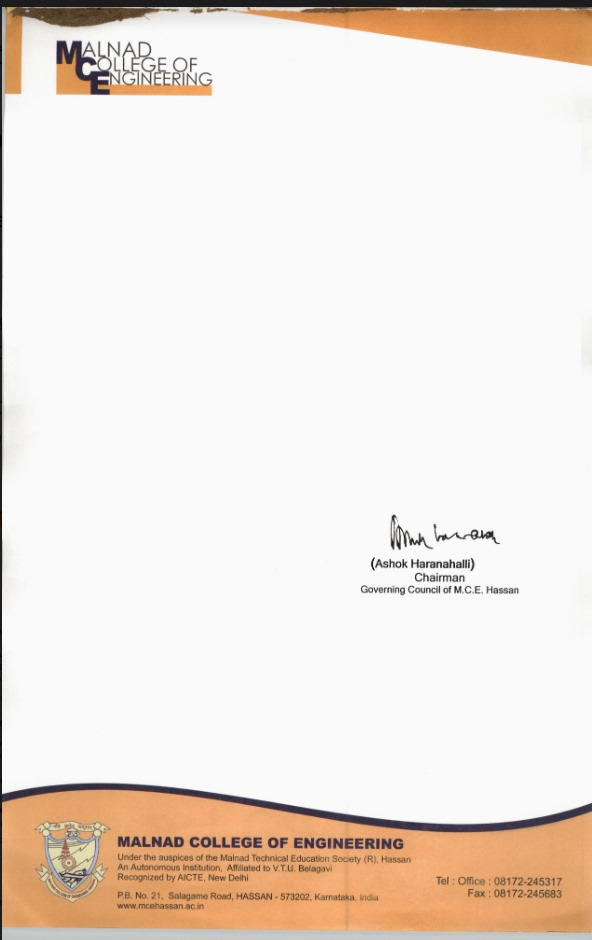
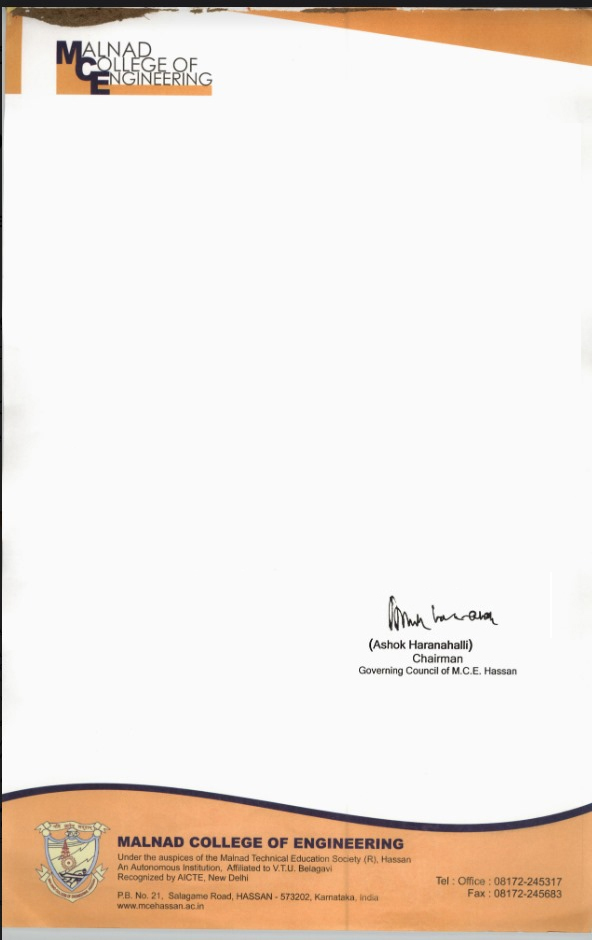
Admit Letter Modified

Changed region(s): [[0.6081, 0.5553, 0.8818, 0.7404]]

diff --git a/application/controllers/Admin.php b/application/controllers/Admin.php
@@ -2096,12 +2096,10 @@ class Admin extends CI_Controller
 			$data['admissionStatusColor'] = $this->globals->admissionStatusColor();
 			$data['currentAcademicYear'] = $this->globals->currentAcademicYear();
 			$data['admissionDetails'] = $this->admin_model->getDetails('admissions', $id)->row();
-			$data['entranceDetails'] = $this->admin_model->getDetails('admissions', $id)->row();
-			$data['personalDetails'] = $this->admin_model->getDetails('admissions', $id)->row();
-			$data['parentDetails'] = $this->admin_model->getDetails('admissions', $id)->row();
+
 			$data['studentDetails'] = $this->admin_model->getDetails('admissions', 'id', $id)->row();
 			$data['educations_details'] = $this->admin_model->getDetailsbyfield($id, 'id', 'student_education_details')->result();
-			$data['admissionDetails'] = $this->admin_model->getDetails('admissions', $id)->row();
+	
 
 
 			$this->load->library('fpdf'); // Load library
@@ -2116,27 +2114,42 @@ class Admin extends CI_Controller
 
 			$topGap = 20;
 
-			$pdf->SetFont('Arial', '', 10);
+			$pdf->SetY($topGap + 5);
+			$pdf->SetFont('Arial', '', 7);
+			$pdf->Cell(0, 3, "No.MCE/".$this->admin_model->get_dept_by_id($data['admissionDetails']->dept_id)["department_short_name"]."/".$data['admissionDetails']->adm_no."/2024-25", 0, 1, 'L');
+			$pdf->SetFont('Arial', 'B', 7);
+			$pdf->Cell(0, 3, 'Ashok Haranahalli', 0, 1, 'L');
+			$pdf->SetFont('Arial', '', 7);
+			$pdf->Cell(0, 3, 'Chairman, Governing Council', 0, 1, 'L');
+			$pdf->Cell(0, 3, 'of M.C.E. Hassan.', 0, 1, 'L');
+
+			$pdf->SetXY(-30, $topGap + 5);
+			$pdf->Cell(0, 10, 'Date:'.date('d-m-Y'), 0, 1, 'R');
 
 			$pdf->SetFont('Arial', 'BU', 12);
-			$pdf->SetY($topGap + 10);
-			$pdf->Cell(0, 10, 'ADMISSION LETTER', 0, 1, 'C');
+			$pdf->SetY($topGap + 20);
+			$pdf->Cell(0, 10, ': LETTER OF ALLOTMENT :', 0, 1, 'C');
 
 
 			$pdf->SetFont('Arial', '', 9);
 
 
 
-			$content = $data['admissionDetails']->student_name . "  has sought admission to the 1st Semester B.E. course in " . $this->admin_model->get_dept_by_id($data['admissionDetails']->dept_id)["department_name"] . " branch at Malnad College of Engineering, Hassan for the year 2024-25.
-					
-					There is a likelihood of some seats remaining vacant from the COMED-K process, and if so, your request for admission will be considered. If for any reason seats are filled up from the COMED-K, you have no right to seek admissions.
-					
-					In the meanwhile, subject to the above conditions, you are instructed to approach the Principal, Malnad College of Engineering, and to pay the required fee, produce the certificate in original, and provisionally get admitted as per rules prescribed by the State Government and the Visweswaraiah Technological University, Belgaum.
-				";
+			$content = " You have sought for admission to the 1st B.E., (Bachelor of Engineering course for the academic year 2023-24 in our college (i.e,., Malnad College of Engineering.) 
 
+			We are pleased to provisionally offer you a seat for 1st year Bachelor of Engineering Course Four years duration in " . $this->admin_model->get_dept_by_id($data['admissionDetails']->dept_id)["department_name"] . ".
+			
+			You are hereby informed to pay the requisite fee in the college. You are required to produce original marks card of 2nd PUC/10+2 at the College.
+			
+			If the fees are not paid within the stipulated time. We presume you are no more interested in getting admission to our college and seat will be allotted to others. Any amount paid by you shall not be refunded. In case you decide to discontinue your studies without completing the four years duration you shall be liable to pay fee to the college for all the four years. The Malnad College of Engineering is one of the reputed college in the country.
+			
+			We hope that you will utilize the facilities in the college, secure good marks and bring credit to our institution.
+			
+			
+			With good wishes";
 
-			$pdf->SetY($topGap + 25);
-			$pdf->MultiCell(0, 6, $content);
+			$pdf->SetY($topGap + 35);
+			$pdf->MultiCell(0, 4, $content);
 
 
 			$fileName = $data['admissionDetails']->student_name . '-Admit_Letter.pdf';
